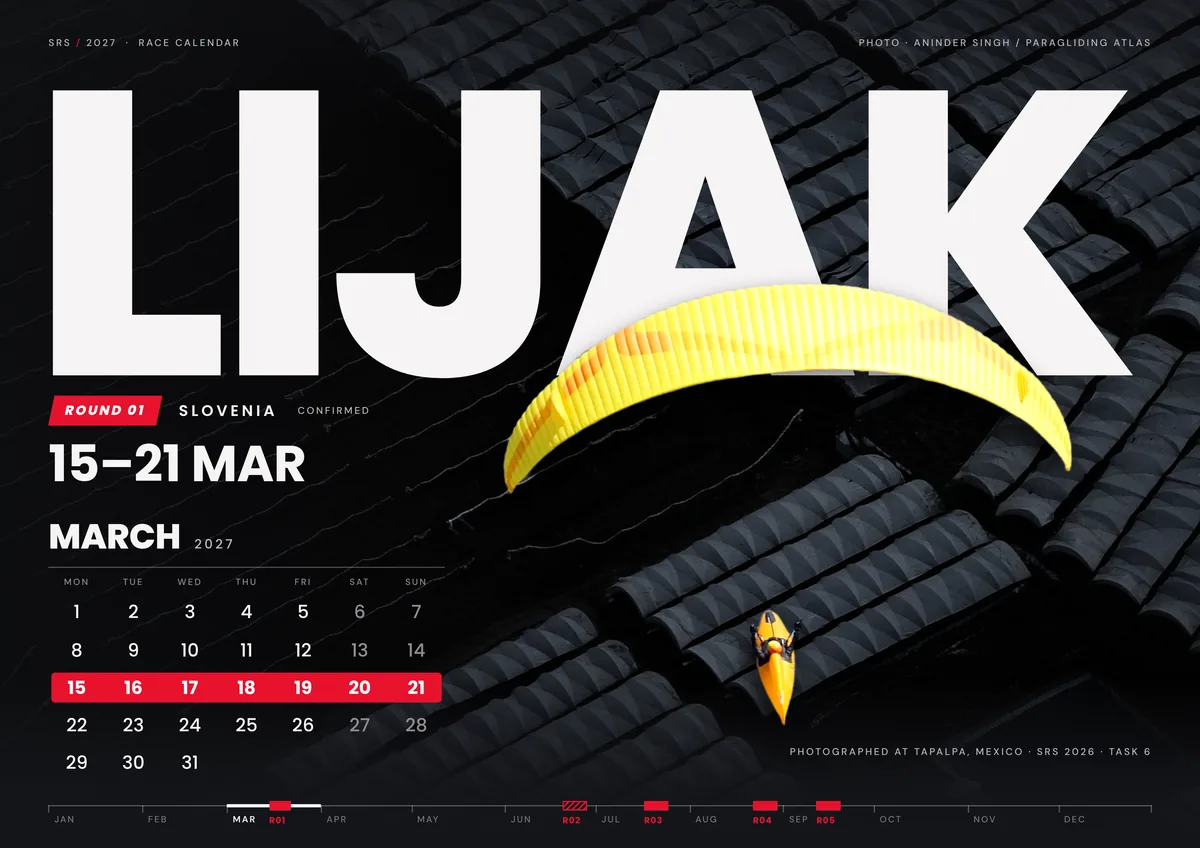
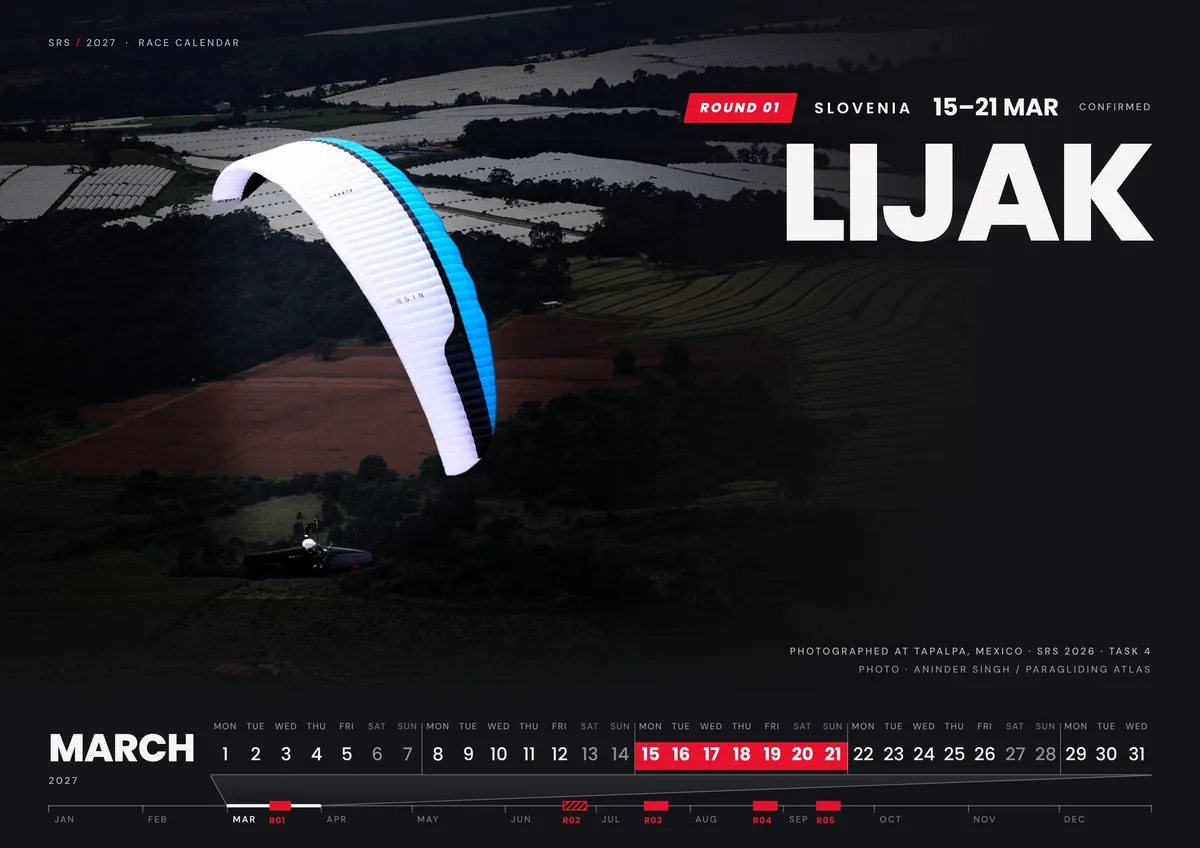
SRS 2027 calendar v2: March back on SRS_6_T4_54 (T6_89 is November's photo now)
Claude-Session: https://claude.ai/code/session_018Da7i8GvmpTqQuksKDnhdU

diff --git a/handoff/srs-calendar-2027/v2/source/build.js b/handoff/srs-calendar-2027/v2/source/build.js
@@ -14,7 +14,8 @@ const PAGES=[
   sh:'linear-gradient(90deg,rgba(20,21,25,.72) 0%,rgba(20,21,25,.3) 34%,rgba(20,21,25,0) 52%),linear-gradient(180deg,rgba(20,21,25,.4) 0%,rgba(20,21,25,0) 14%,rgba(20,21,25,0) 62%,rgba(20,21,25,.9) 90%,#141519 100%)',cap:'Tapalpa, Mexico',sub:'SRS 2026 · Task 6'},
  {file:'03-february',type:'quiet',m:2,img:'t6_100_nat.jpg',size:'297mm auto',pos:'0 0',t:{x:12,y:24,w:118,max:26},c:{x:12,y:104},
   sh:'linear-gradient(90deg,rgba(20,21,25,.93) 0%,rgba(20,21,25,.84) 32%,rgba(20,21,25,0) 58%),linear-gradient(180deg,rgba(20,21,25,.7) 0%,rgba(20,21,25,0) 18%,rgba(20,21,25,0) 70%,rgba(20,21,25,.92) 91%,#141519 100%)',cap:'Tapalpa, Mexico',sub:'SRS 2026 · Task 6'},
- {file:'04-march',type:'round',m:3,img:'t6_89_e.jpg',cut:'t6_89_ecut.png',size:'360mm auto',pos:'-42.6mm -1mm',cap:'Tapalpa, Mexico',sub:'SRS 2026 · Task 6'},
+ {file:'04-march',type:'fan',m:3,head:'tr',hw:100,img:'t6_t454_sd.jpg',size:'auto 175mm',pos:'0 0',
+  sh:'linear-gradient(270deg,#141519 0,#141519 50mm,rgba(20,21,25,.5) 96mm,rgba(20,21,25,0) 150mm),linear-gradient(180deg,rgba(20,21,25,.3) 0%,rgba(20,21,25,0) 14%,rgba(20,21,25,0) 84%,#141519 100%)',cap:'Tapalpa, Mexico',sub:'SRS 2026 · Task 4',capL:true},
  {file:'05-april',type:'fan',m:4,head:'tl',hw:88,img:'t6_t494_fx.jpg',size:'262mm auto',pos:'35mm 0',
   sh:'linear-gradient(90deg,#141519 0,#141519 37mm,rgba(20,21,25,.55) 80mm,rgba(20,21,25,0) 150mm),linear-gradient(180deg,rgba(20,21,25,.35) 0%,rgba(20,21,25,0) 16%,rgba(20,21,25,0) 80%,#141519 100%)',cap:'Tapalpa, Mexico',sub:'SRS 2026 · Task 4'},
  {file:'06-may',type:'fan',m:5,head:'tl',hw:92,img:'t6_t4152_nat.jpg',size:'297mm auto',pos:'0 -18mm',
@@ -262,6 +263,7 @@ html,body{width:297mm;height:210mm;background:#141519;color:#f6f4f4;font-family:
 /* ===== v2: the three designers combined ===== */
 .tagn{display:inline-block;font:800 3.3mm/1 Poppins;letter-spacing:.14em;color:#f6f4f4;padding:2mm 3.4mm;transform:skewX(-12deg);box-shadow:0 0 0 .3mm rgba(246,244,244,.75) inset;white-space:nowrap}
 .cr2{color:#8d8c92}
+.capl{position:absolute;right:12mm;top:160mm;text-align:right}.capl .lb{display:block}.capl .lb+.lb{margin-top:2.2mm;color:#8d8c92}
 .capv{position:absolute;right:5.5mm;top:12mm;writing-mode:vertical-rl}
 /* quiet month: the month is the headline, the calendar sits in the photo's own dark */
 .qm .ph{position:absolute;inset:0;background-repeat:no-repeat}
@@ -425,11 +427,11 @@ function fxRow(m){const {r,here}=rinfo(m);if(!r)return '<span class="lb">Season 
  return here?`<span class="tagf">ROUND ${pad(r.n)}</span><span class="co">${r.country}</span><span class="dt">${span(r)}</span>${statusTag(r)}`
   :`<span class="tagn">${nextLab(r,false)}</span><span class="co">${r.place}, ${r.country}</span><span class="dt">${span(r)}</span>${statusTag(r)}`}
 function fan(p){const m=p.m,{r,here}=rinfo(m),tl=p.head=='tl',H=headline(m,p.hw||128,21,34),two=H.lines.length>1;
- const fxTop=tl?23:(two?120:126.5), bigTop=tl?32.5:(two?130:136.5);
+ const tr=p.head=='tr', fxTop=tl||tr?23:(two?120:126.5), bigTop=tl||tr?32.5:(two?130:136.5), side=tr?'left:auto;right:12mm;':'';
  return `<div class="pg fs"><div class="ph" style="${bgf(p,p.img)}"></div><div class="sh"${p.sh?` style="background:${p.sh}"`:''}></div>
-<div class="top"><span class="lb">SRS <span class="red">/</span> 2027 &nbsp;·&nbsp; Race Calendar</span>${p.capV?'':`<span class="lb">Photographed at ${p.cap} · ${p.sub} &nbsp;·&nbsp; ${CREDIT}</span>`}</div>${p.capV?`<div class="capv lb">${p.cap} · ${p.sub} &nbsp;·&nbsp; ${CREDIT}</div>`:''}
-<div class="fx" style="top:${fxTop}mm">${fxRow(m)}</div>
-<div class="big" style="--fs:${H.fs.toFixed(1)}mm;top:${bigTop}mm">${H.lines.join('<br>')}</div>
+<div class="top"><span class="lb">SRS <span class="red">/</span> 2027 &nbsp;·&nbsp; Race Calendar</span>${p.capV||p.capL?'':`<span class="lb">Photographed at ${p.cap} · ${p.sub} &nbsp;·&nbsp; ${CREDIT}</span>`}</div>${p.capL?`<div class="capl"><span class="lb">Photographed at ${p.cap} · ${p.sub}</span><span class="lb">${CREDIT}</span></div>`:''}${p.capV?`<div class="capv lb">${p.cap} · ${p.sub} &nbsp;·&nbsp; ${CREDIT}</div>`:''}
+<div class="fx" style="${side}top:${fxTop}mm">${fxRow(m)}</div>
+<div class="big" style="${side}${tr?'text-align:right;':''}--fs:${H.fs.toFixed(1)}mm;top:${bigTop}mm">${H.lines.join('<br>')}</div>
 ${rowBlock(m,here?MN[m-1]:'2027')}</div>`}
 function depthrow(p){const m=p.m,{r,here}=rinfo(m);
  return `<div class="pg fs dr"><div class="ph" style="${bgf(p,p.img)}"></div><div class="sh"></div>

diff --git a/handoff/srs-calendar-2027/v2/README.md b/handoff/srs-calendar-2027/v2/README.md
@@ -9,7 +9,7 @@ on race months the round is the headline; provisional is hatched, never solid; n
 racing; a round that crosses a week sits on a one-line month; and, the owner's rule of 23 Nov: "lines should not
 be removed of any close up glider shot", so close-ups keep a sharp ground instead of a motion blur.
 
-Photos: cover T6_138, Jan T6_66, Feb T6_100, Mar T6_89 (was T4_54, now spare), Apr T4_94, May T4_152, Jun T4_118,
+Photos: cover T6_138, Jan T6_66, Feb T6_100, Mar T4_54 (T6_89 went to November, made live by website chat 30 on 24 Nov), Apr T4_94, May T4_152, Jun T4_118,
 Jul T3_45, Aug T3_57, Sep T3_76.
 
 pages/: the ten pages, 2400 and 1200 px WebP. source/: build.js (layouts) and the treatment scripts.
